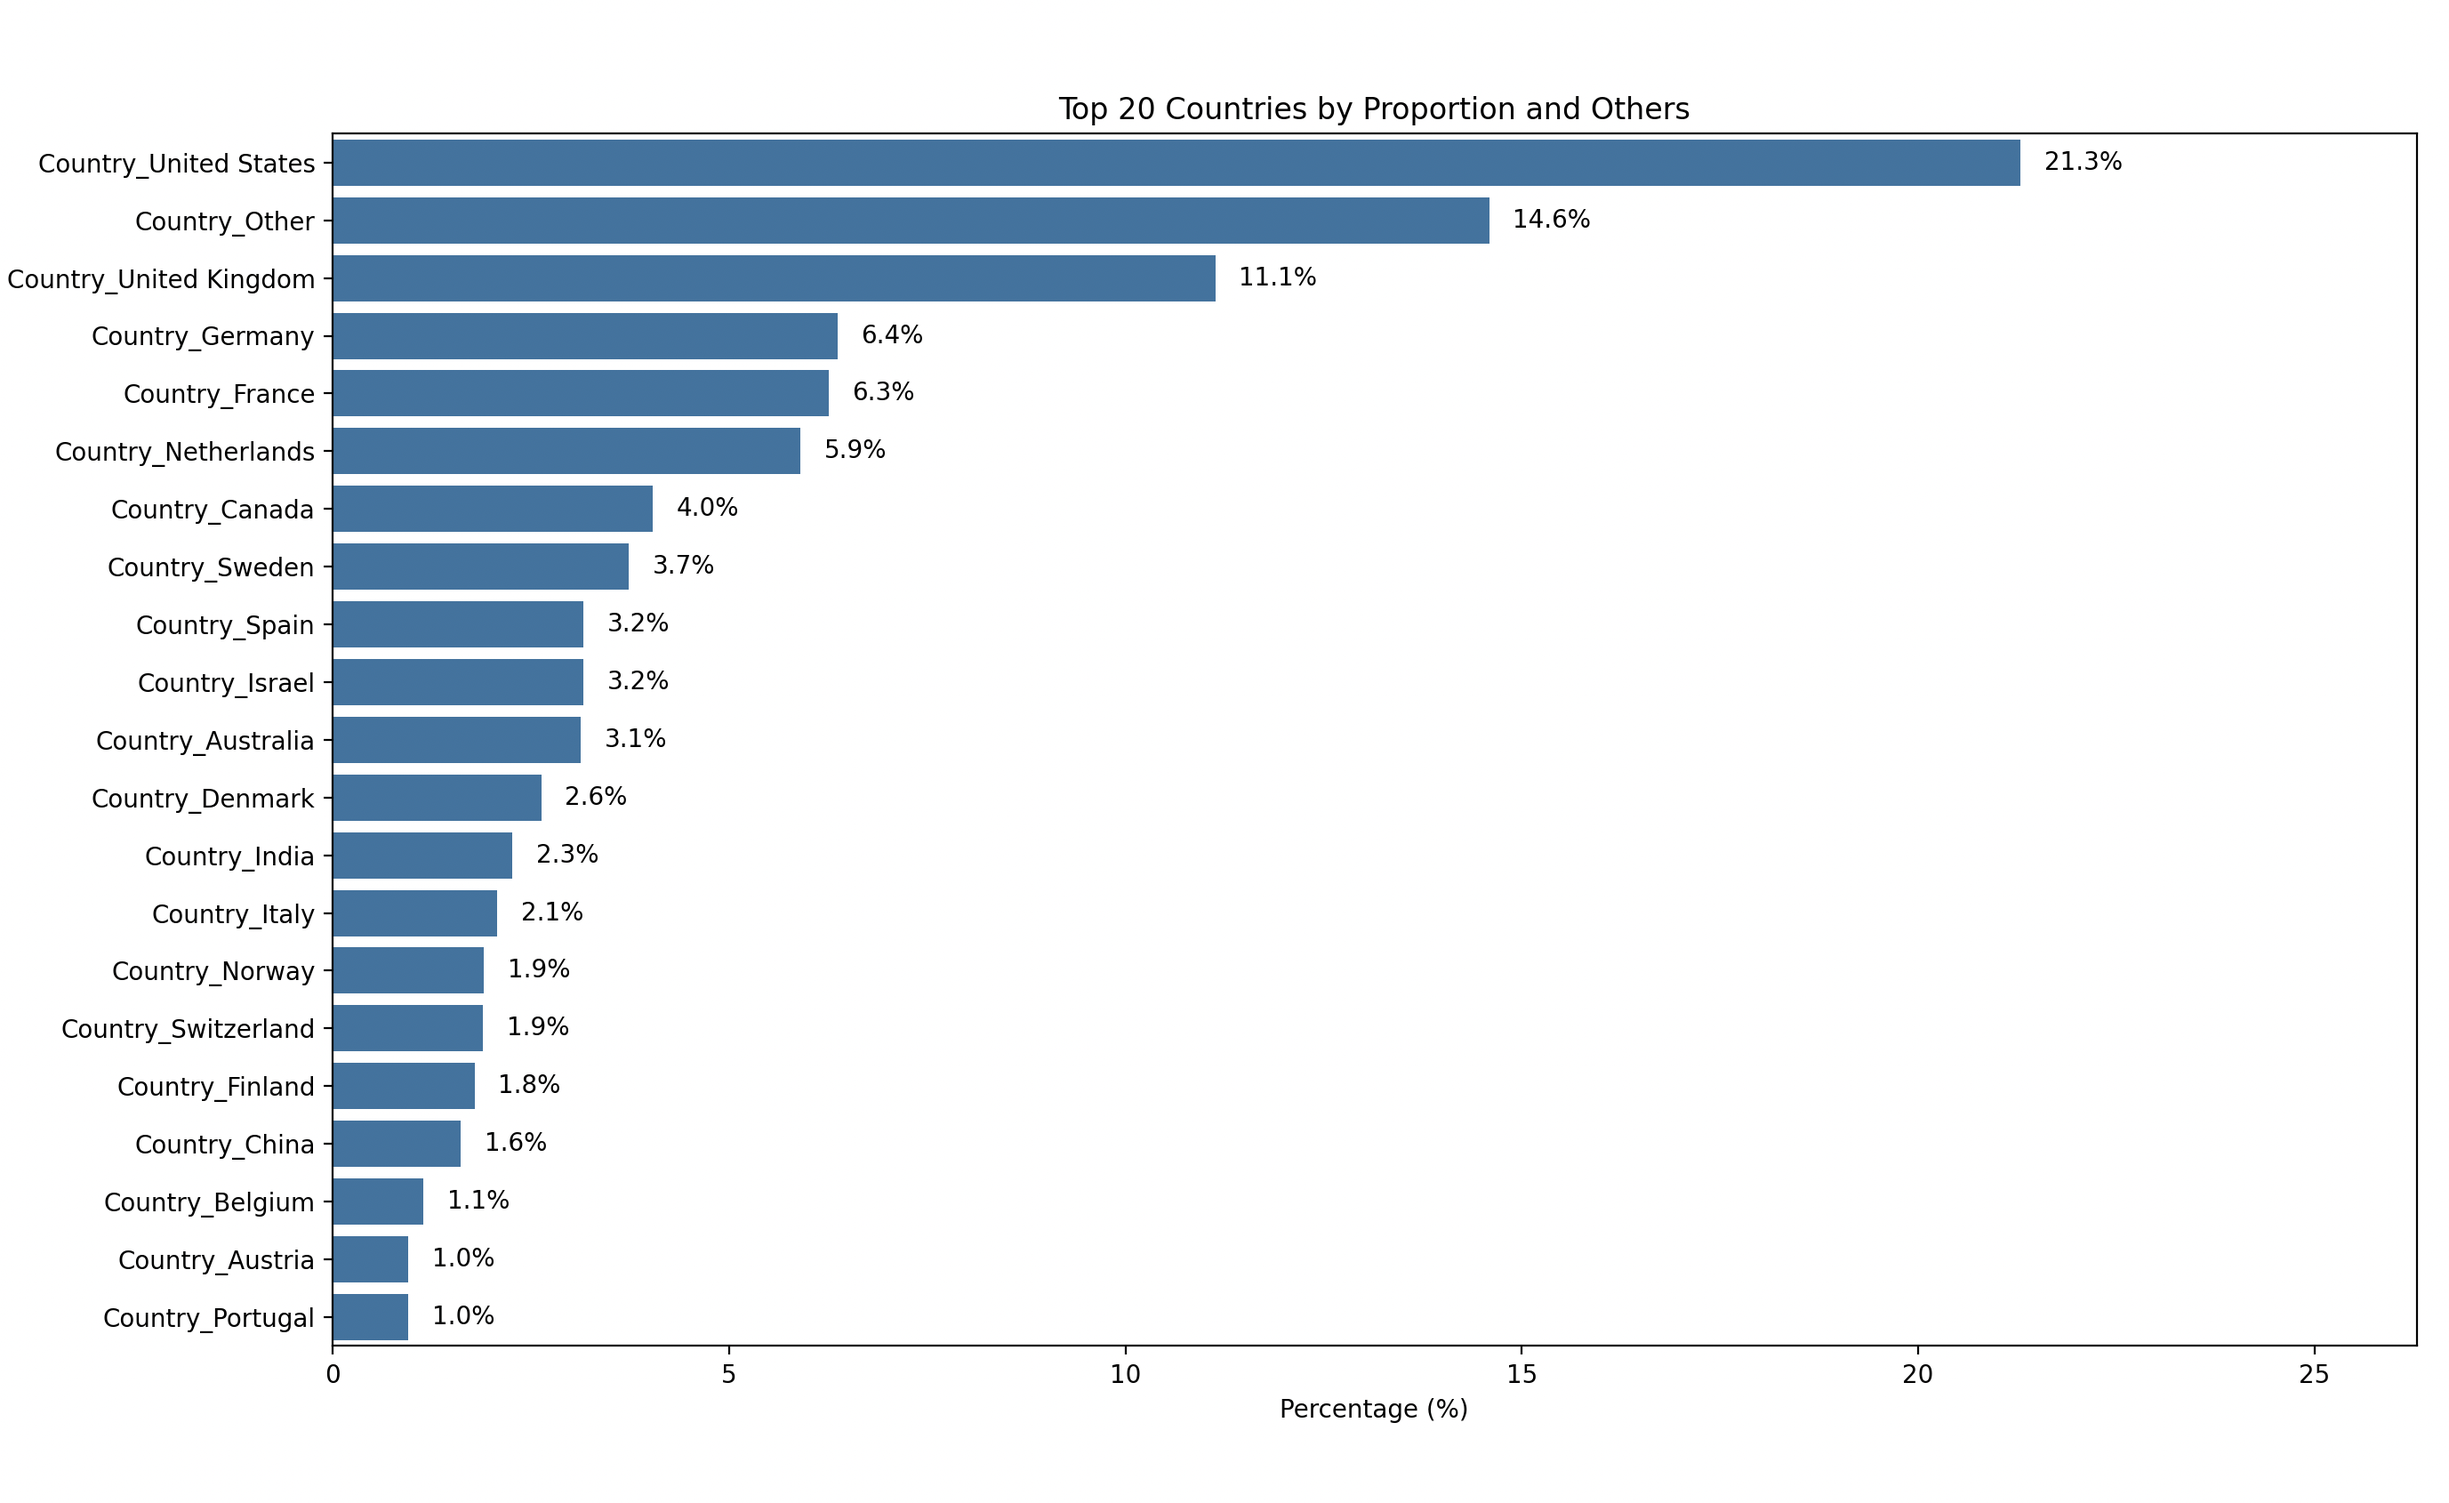
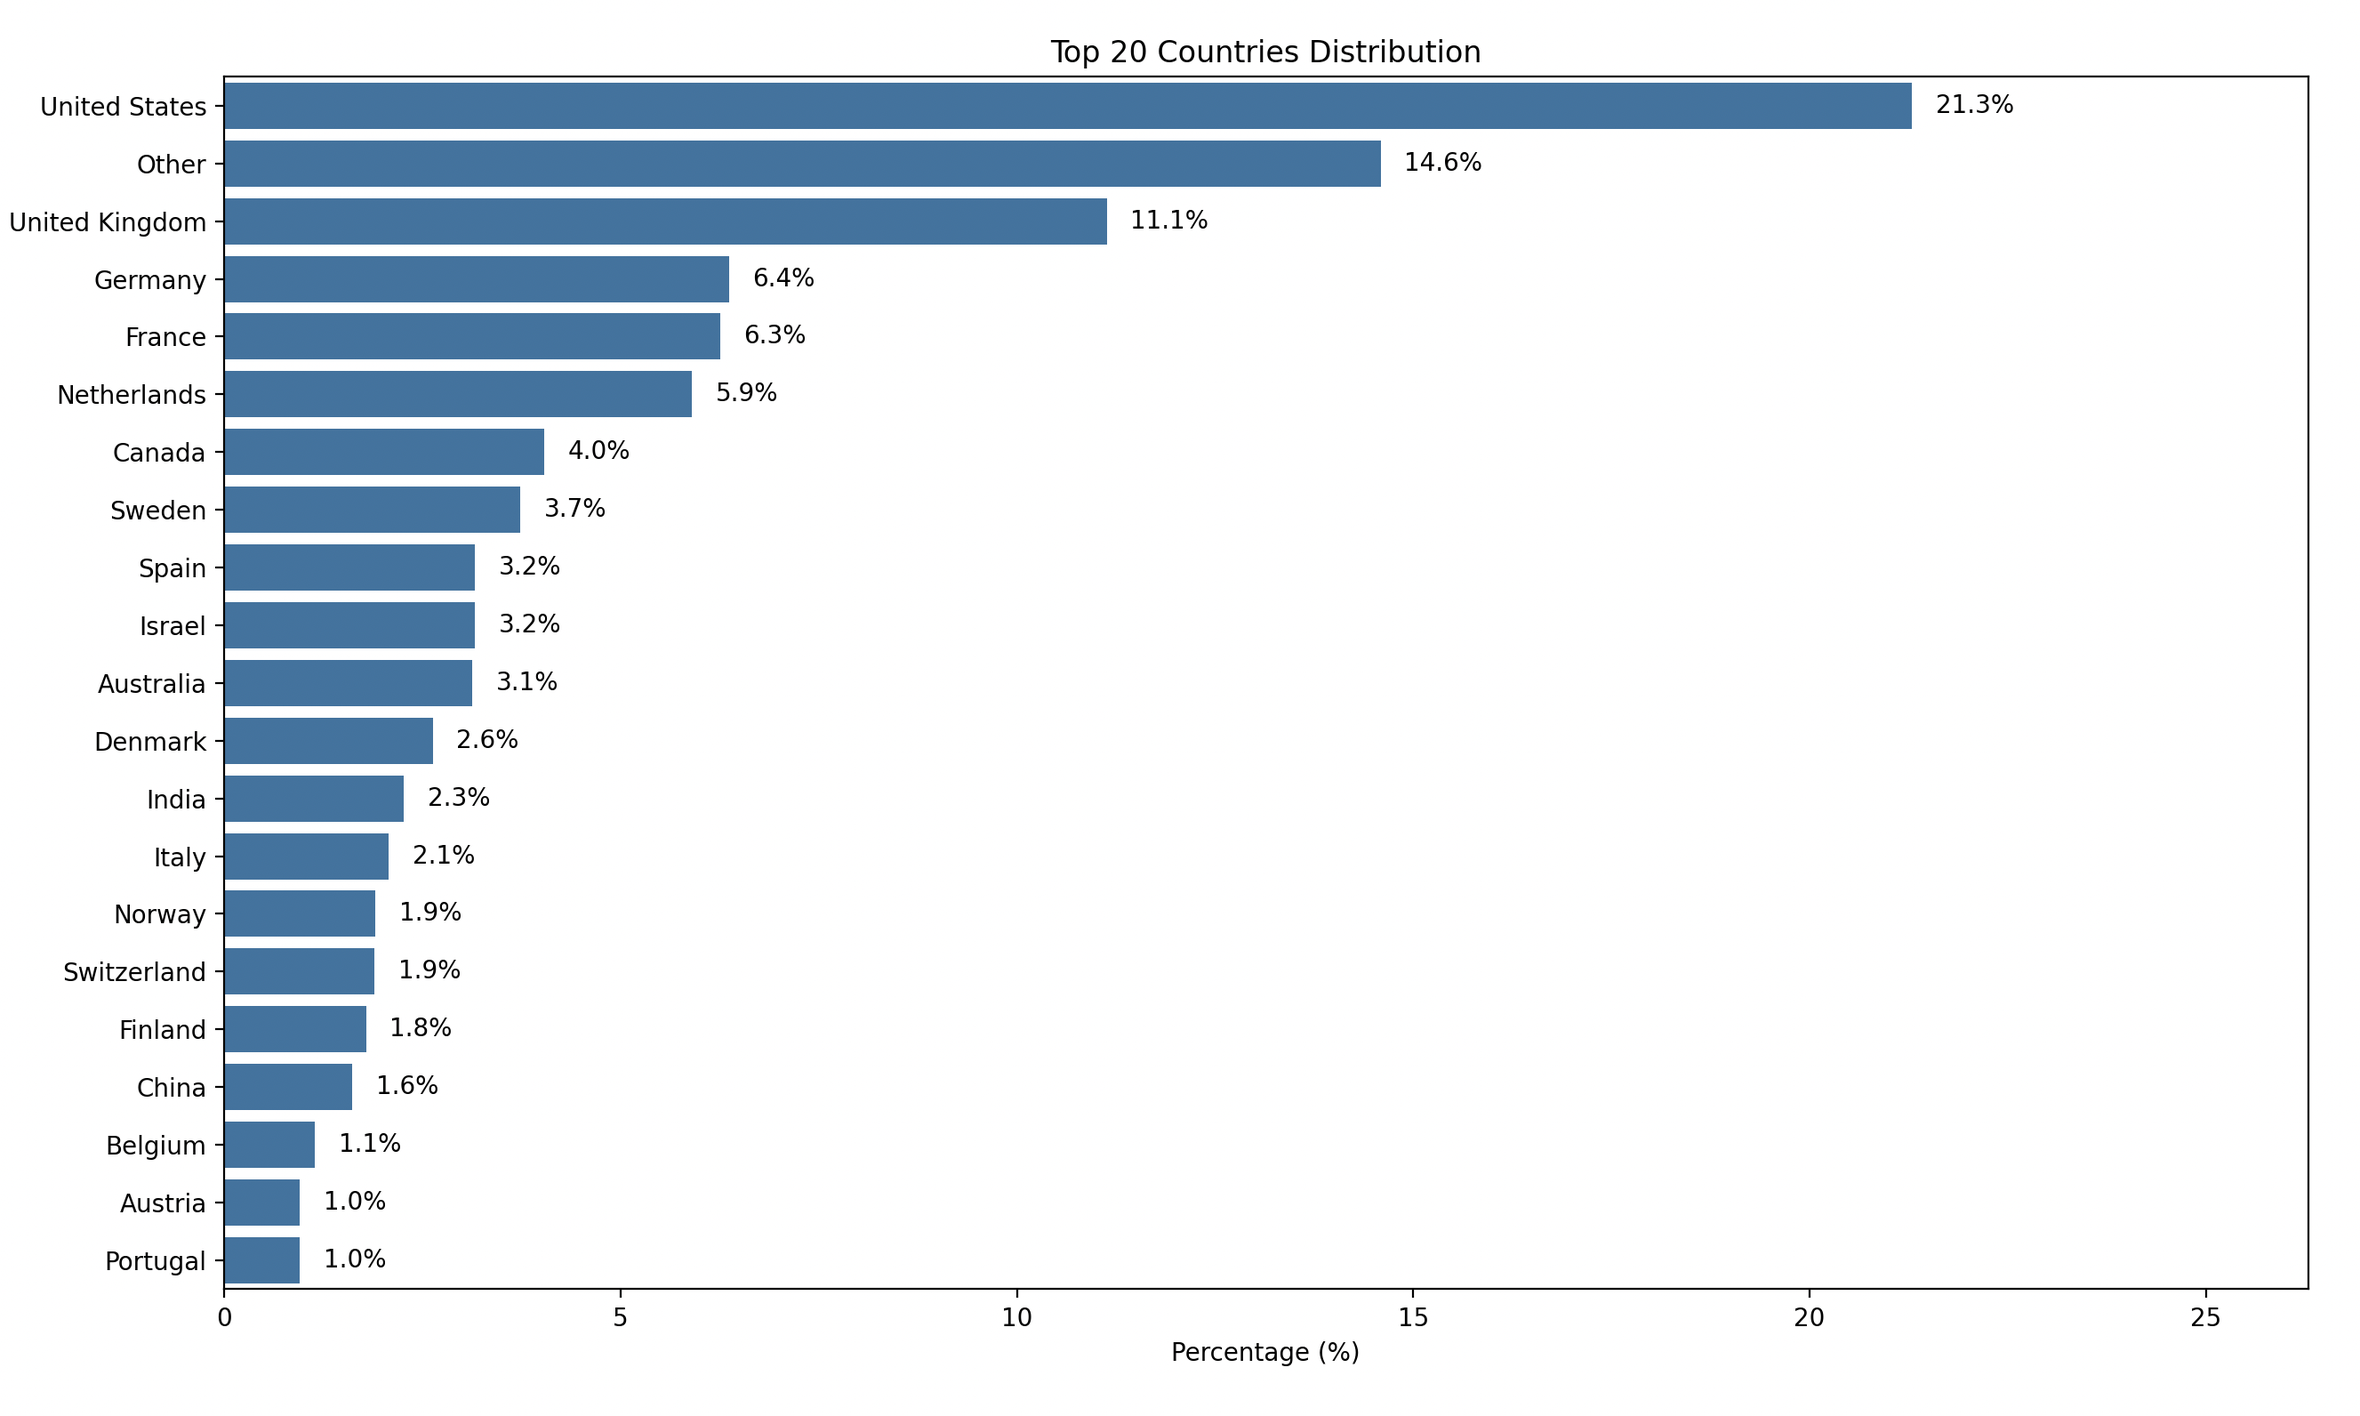
countries plot refactor

Changed region(s): [[0.0, 0.0308, 0.9887, 0.9849], [0.9578, 0.0616, 0.9887, 0.0923]]

diff --git a/Scripts/all_features_describe.py b/Scripts/all_features_describe.py
@@ -25,11 +25,14 @@ country_cols = df.filter(regex='^Country_')
 # Calculate percentages and sort
 country_props = (country_cols.mean() * 100).sort_values(ascending=False)
 
+# Clean up the labels for the chart by removing the "Country_" prefix
+country_props.index = country_props.index.str.replace('Country_', '')
+
 
 # Plot
 plt.figure(figsize=(12, 5))
 sns.barplot(x=country_props.values, y=country_props.index)
-plt.title("Top 20 Countries by Proportion and Others")
+plt.title("Top 20 Countries Distribution")
 plt.xlabel("Percentage (%)")
 
 # Add the exact percentage text to the end of each bar
@@ -62,7 +65,7 @@ ax = sns.barplot(
 )
 
 # Add formatting and labels
-plt.title("Distribution by Industry", fontsize=14, pad=15)
+plt.title("Top 20 Industries Distribution")
 plt.xlabel("Percentage of Dataset (%)", fontsize=12)
 
 
